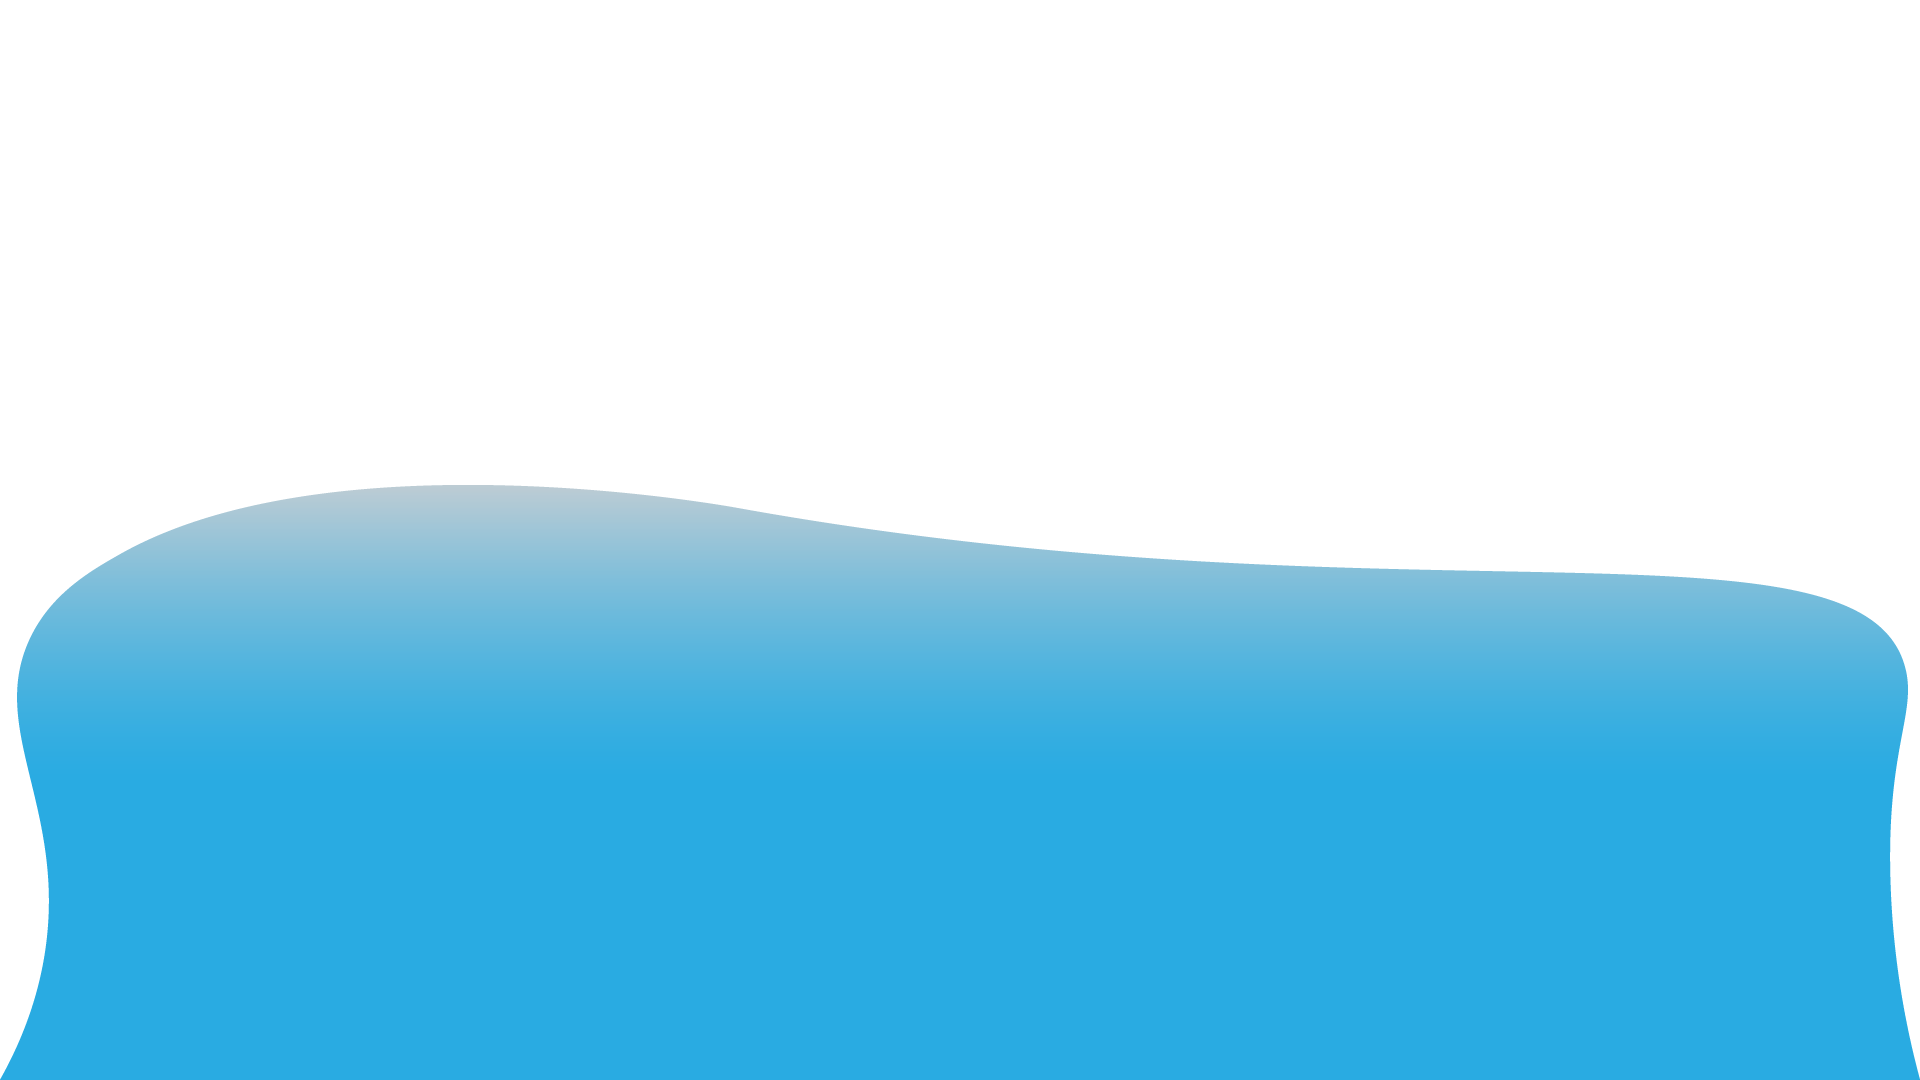
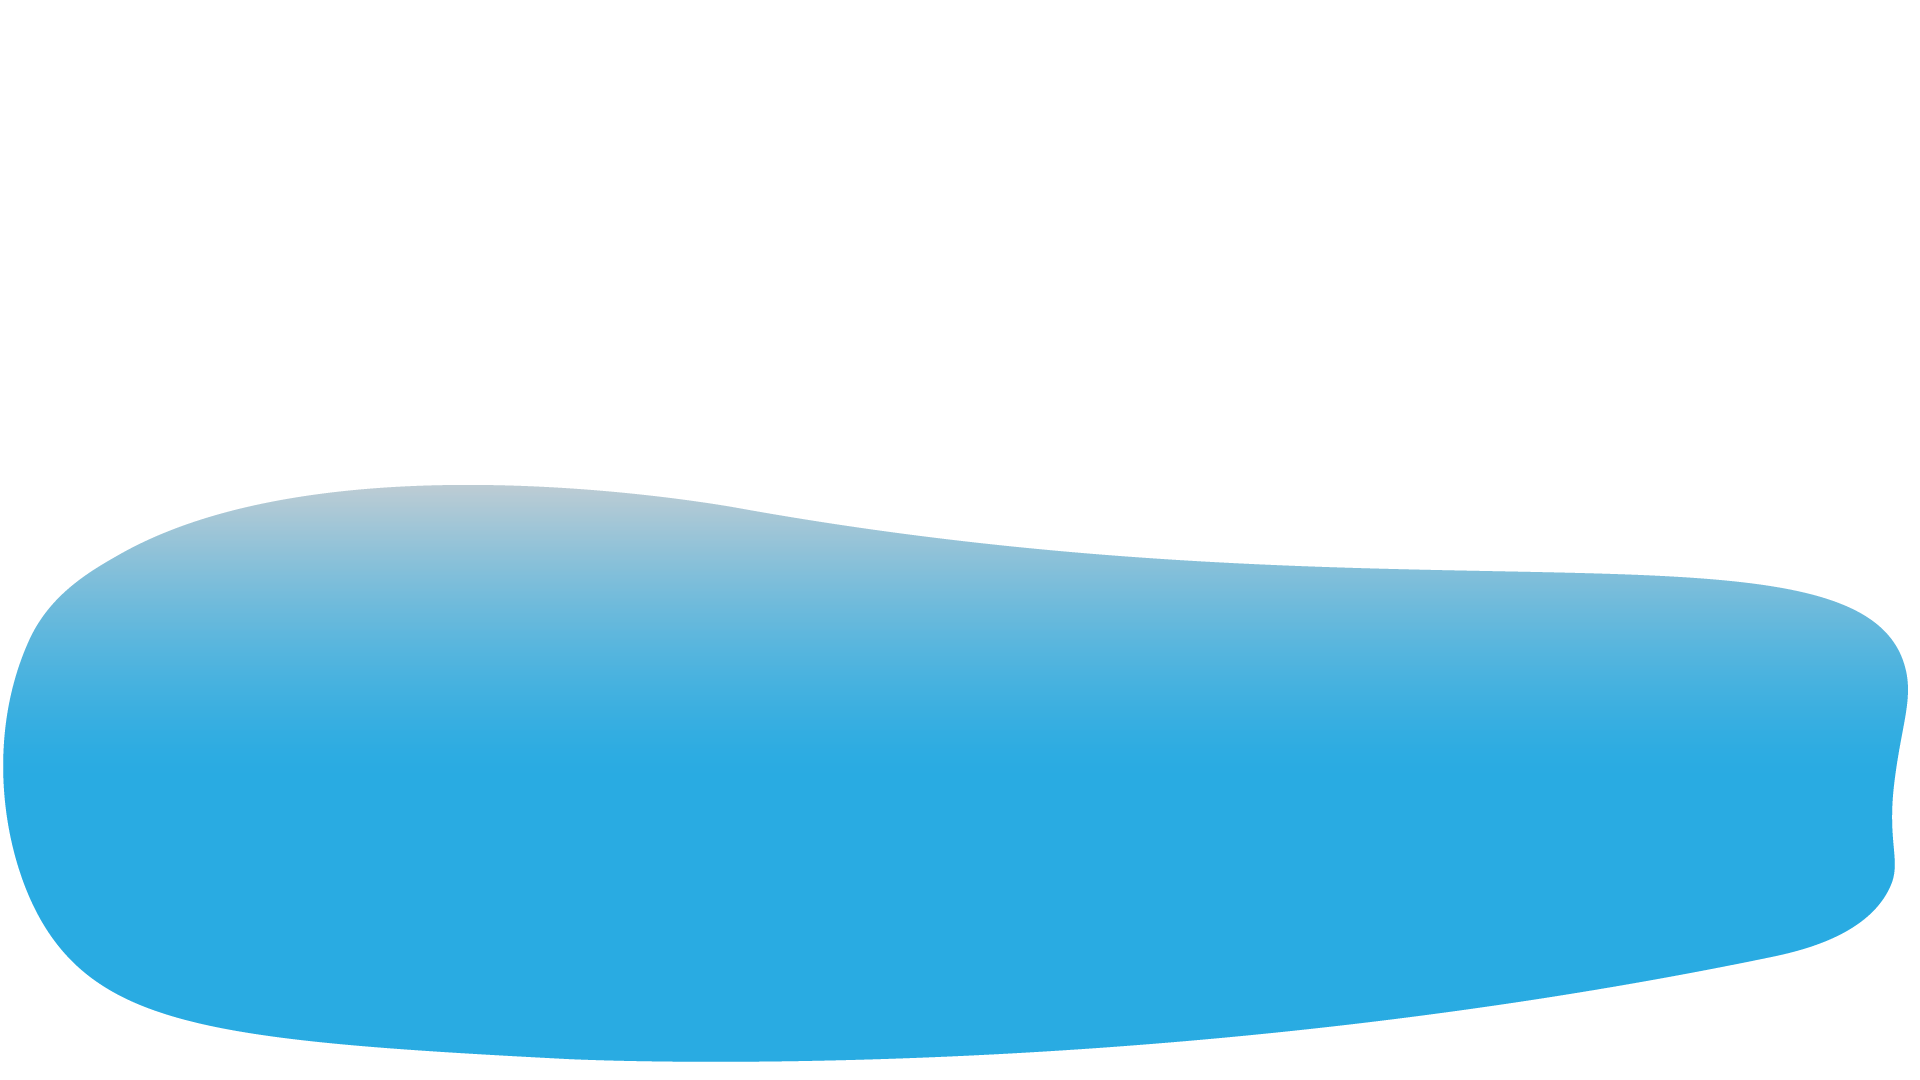
update floor

Changed region(s): [[0.0, 0.6417, 1.0, 1.0]]

diff --git a/style.css b/style.css
@@ -1,3 +1,4 @@
+
 html{
     scroll-behavior:smooth !important;
 }
@@ -189,10 +190,9 @@ a:link{
 .floor{
     position: absolute;
      opacity: 50%;
-     zoom: 1.5;
-     top: 0%;   
+     zoom: 1;
+     top: 10%;   
 }
-
 
 
 .p1, .p2, .p3{
